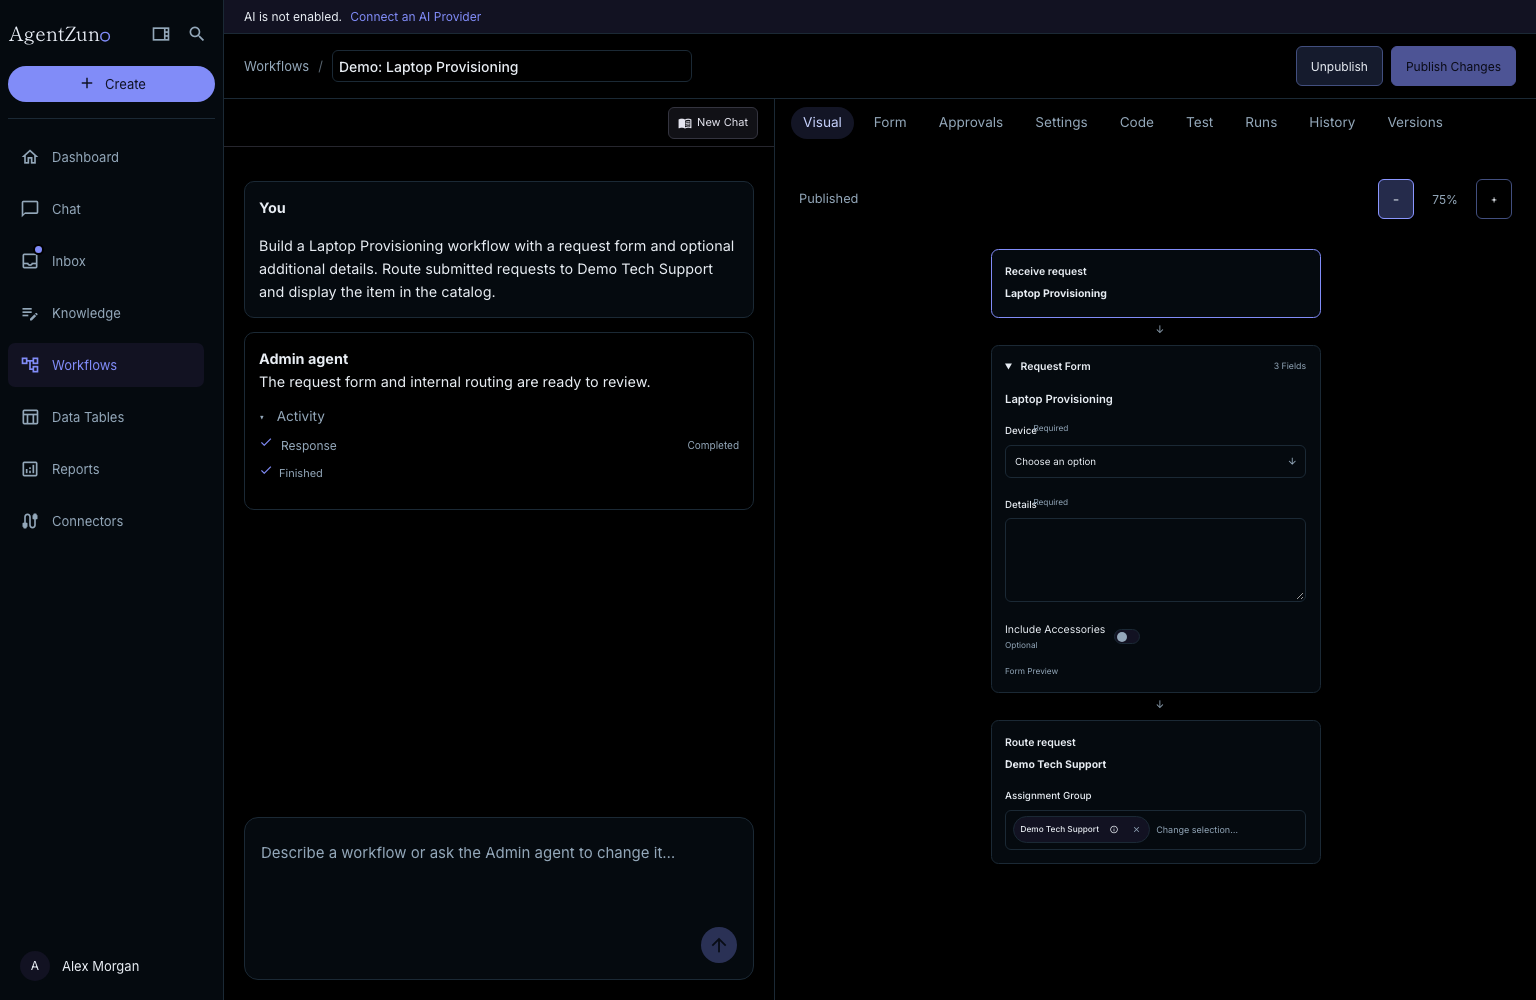
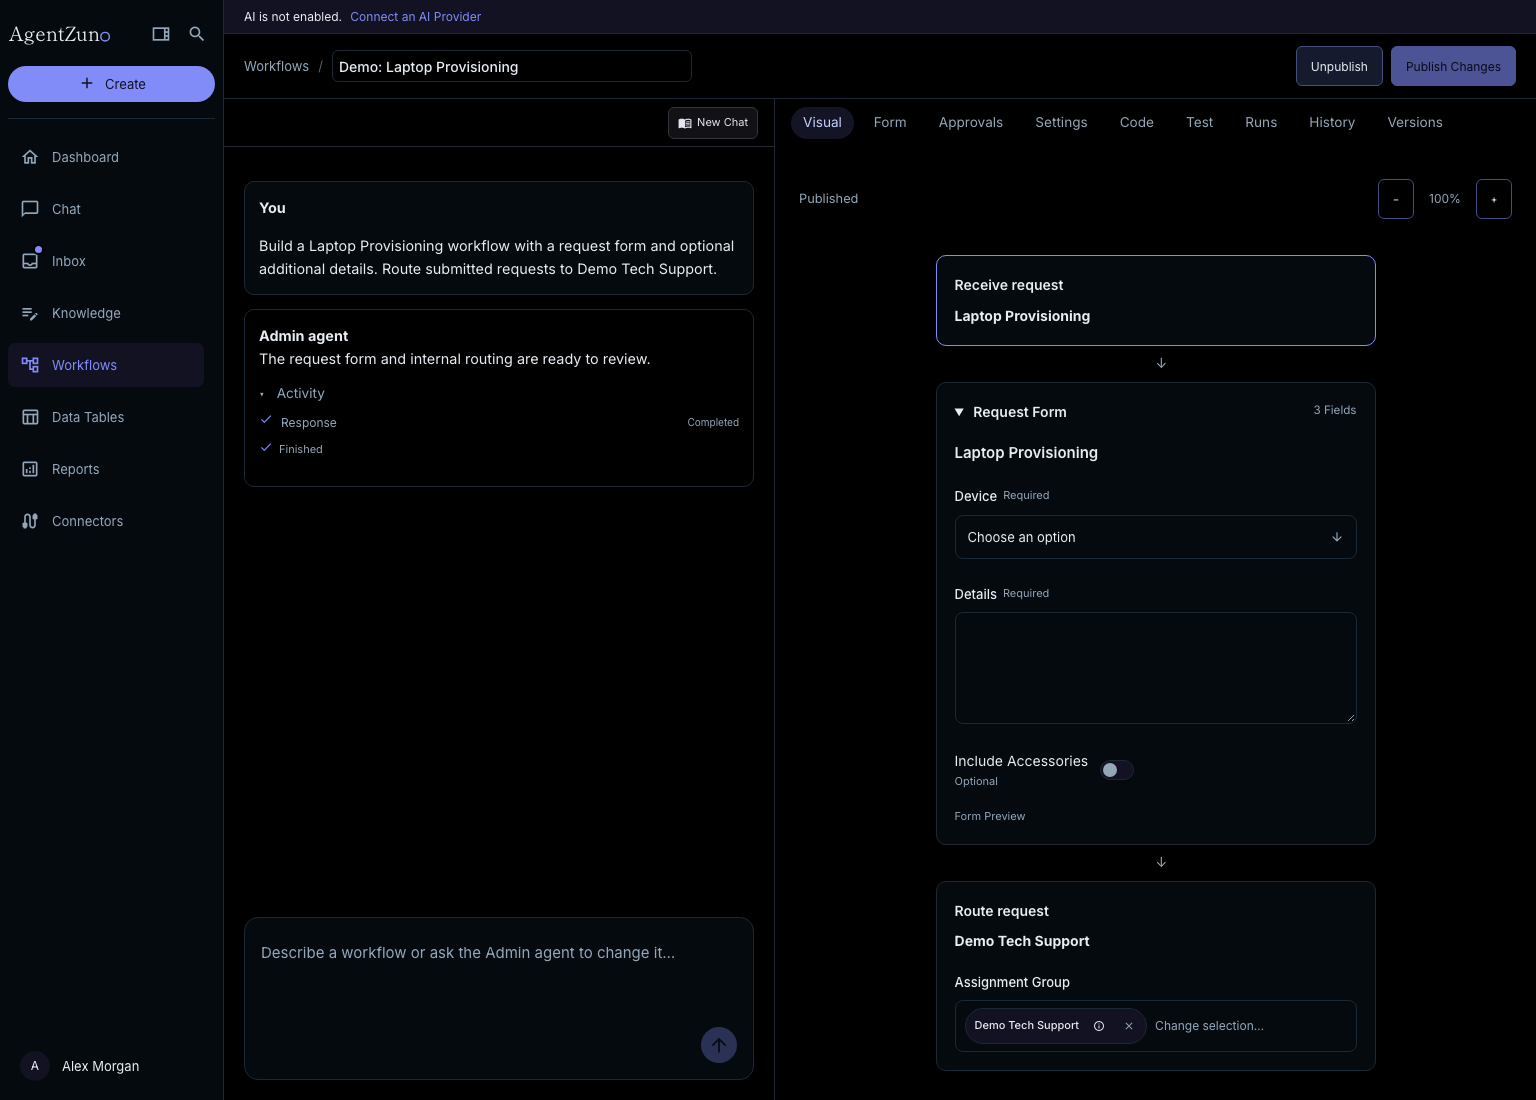
test updates

diff --git a/api/src/controllers/demo/demoModeController.js b/api/src/controllers/demo/demoModeController.js
@@ -252,7 +252,7 @@ export function createDemoModeController(store, service) {
             tag,
             workflow,
             savedWorkflow.publishedConfig || value,
-            `Build a ${item.name} workflow with a request form and optional additional details. Route submitted requests to ${groupName} and display the item in the catalog.`,
+            `Build a ${item.name} workflow with a request form and optional additional details. Route submitted requests to ${groupName}.`,
           );
         }
         for (const [index, item] of examples.requests.entries()) {

diff --git a/test/browser/workspace.spec.js b/test/browser/workspace.spec.js
@@ -144,7 +144,7 @@ test('request conversations and workflow visuals render current app records', as
   await expect(page.getByText('Request Form', { exact: true }).first()).toBeVisible();
   await expect(page.locator('.conversation-skeleton')).toHaveCount(0);
   if (process.env.UPDATE_README_SCREENSHOTS) {
-    await page.getByRole('button', { name: 'Zoom out', exact: true }).click();
+    await page.setViewportSize({ width: 1536, height: 1100 });
     await page.screenshot({ path: 'public/help/readme-workflow-builder-dark.png' });
   }
 });

diff --git a/README.md b/README.md
@@ -31,7 +31,7 @@ Screenshots use fictional development records.
 
 Build and review a workflow alongside the Admin conversation.
 
-![Workflow builder with its request form, approval, and routing steps](public/help/readme-workflow-builder-dark.png)
+![Workflow builder with its request form and routing steps](public/help/readme-workflow-builder-dark.png)
 
 Explore a populated IT knowledge base with searchable folders, topics, and an article reader.
 
